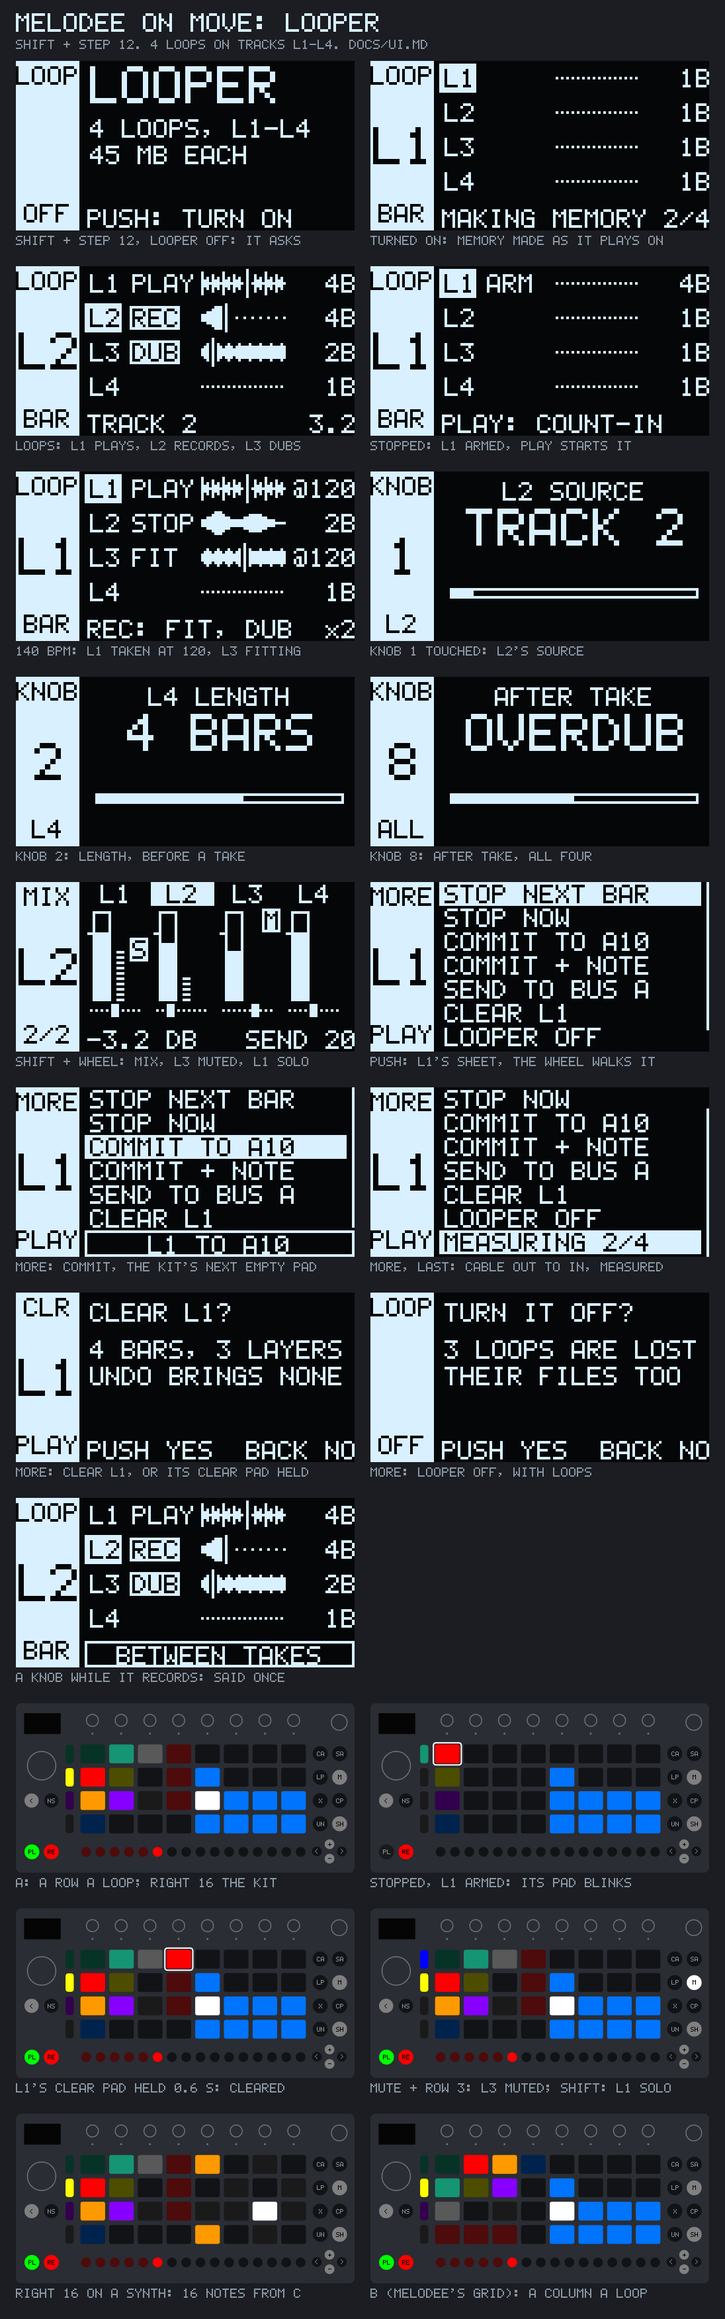
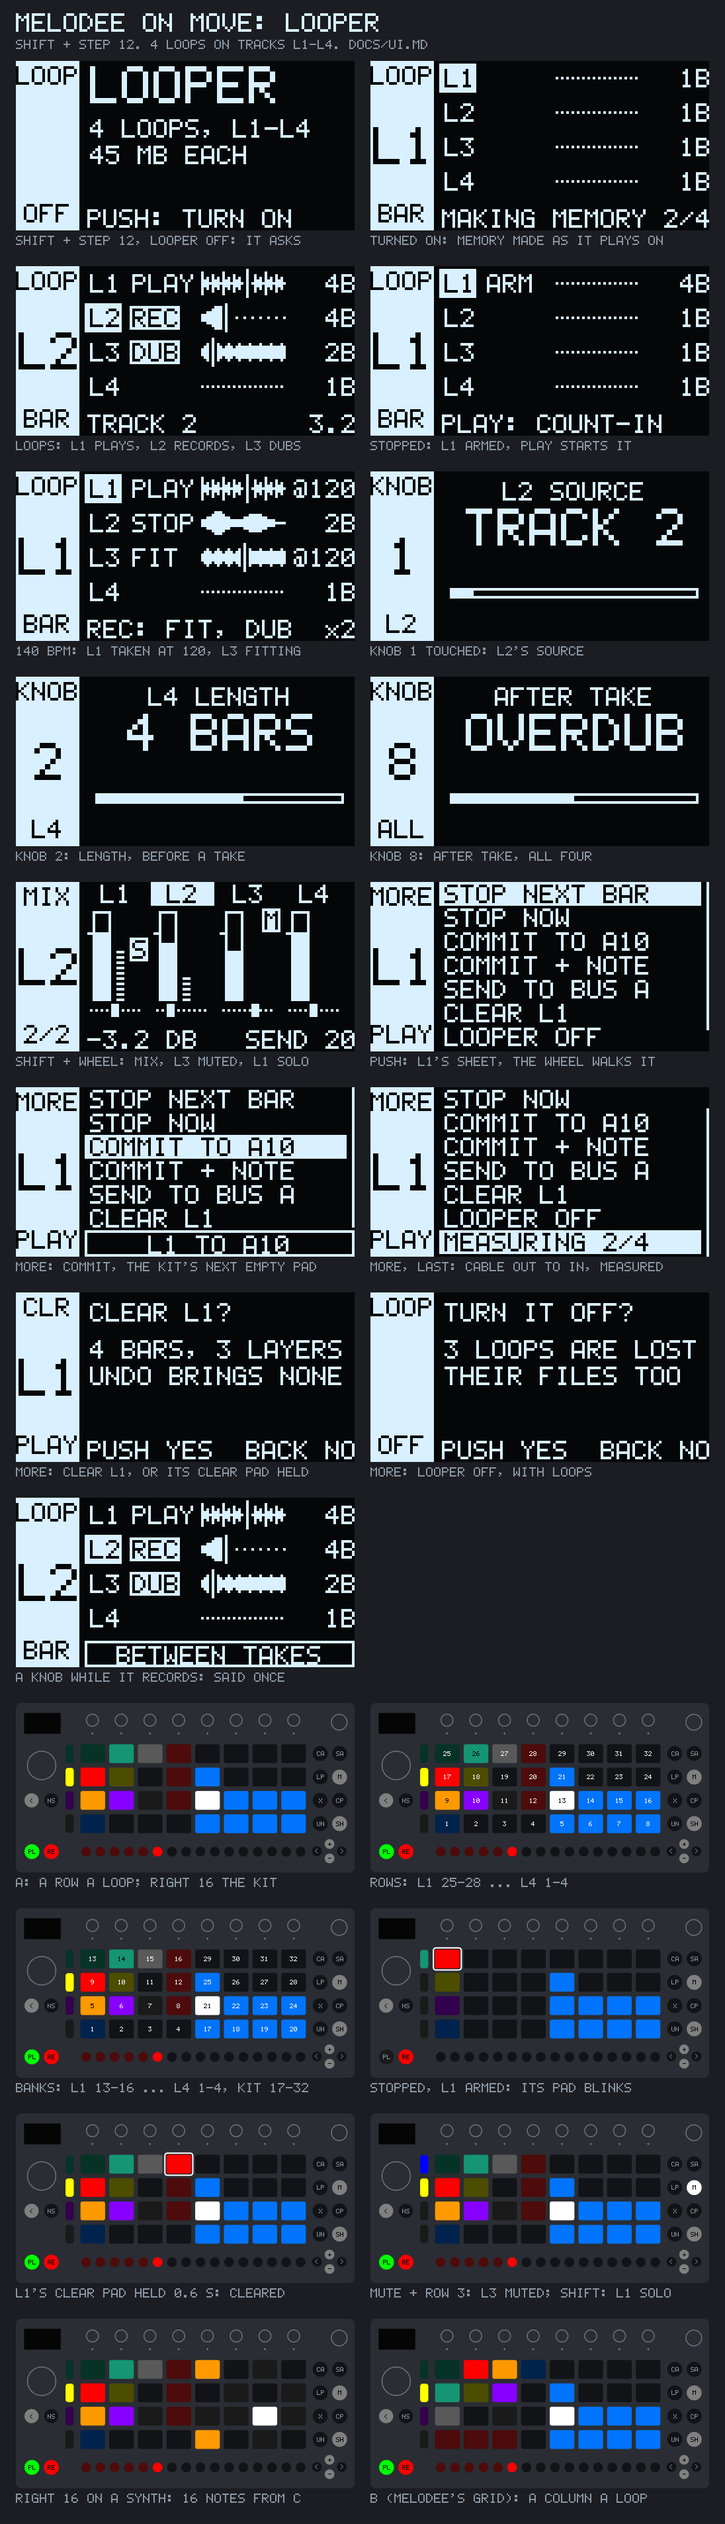
feat(move): the Looper's pads through the pad map, Rows and Banks

diff --git a/src/app/screens/looper.cpp b/src/app/screens/looper.cpp
@@ -123,17 +123,18 @@ void loop_buttons(const Studio& studio, move::Lights& lights) {
     }
 }
 
-// The pads: the left 16 the loops' rows (L1 on top), the right 16 the selected track's.
+// The pads, by their logical numbers (app/pad_layout.h): the loops' rows
+// (L1 on top), and the selected track's 16 (LoopDesk::pad_at()).
 void loop_pads(const Studio& studio, move::Lights& lights, const std::array<bool, pad_count>& held, bool blink_on) {
     using namespace move;
     const auto& desk = studio.loops();
+    auto layout = pad_layout();
     static const uint8_t dim_red = nearest_colour({90, 0, 0});
     auto now = Studio::Clock::now();
     for (unsigned loop = 0; loop < LoopDesk::loops; ++loop) {
         auto v = desk.view(loop);
         auto colour = ui::looper::loop_colour(loop);
-        unsigned row = pad_rows - 1 - loop;
-        auto at = [&](unsigned job) { return row * pad_columns + job; };
+        auto at = [&](unsigned job) { return physical_pad(LoopDesk::loop_pad(loop, job, layout), layout); };
         bool audio = v.length > 0 && v.state != S::Empty;
         // Record: red recording (blinking armed), orange overdubbing, the loop's colour dim otherwise.
         uint8_t record = v.state == S::Recording ? colour::red : v.state == S::Armed ? (blink_on ? colour::red : colour::off)
@@ -164,19 +165,24 @@ void loop_pads(const Studio& studio, move::Lights& lights, const std::array<bool
     auto colour = ui::track_colour(studio.track());
     const auto& track = studio.current();
     unsigned bank = track.last_pad / 16 % 2;
-    for (unsigned row = 0; row < pad_rows; ++row)
-        for (unsigned column = LoopDesk::PadJobs; column < pad_columns; ++column) {
-            unsigned pad = row * pad_columns + column, at = row * 4 + column - LoopDesk::PadJobs;
-            uint8_t shown = colour::off;
-            if (kind == TrackKind::Kit) {
-                unsigned kit = bank * 16 + at;
-                shown = kit == track.last_pad ? colour::white : track.pads[kit].used() ? colour.bright : colour::off;
-            } else if (kind == TrackKind::Synth || kind == TrackKind::Keys || kind == TrackKind::Midi || kind == TrackKind::Plugin) {
-                shown = at % 12 == 0 ? colour.bright : natural(int(at)) ? colour::dark_grey : colour::off;
-            }
-            if (held[pad]) shown = colour::white;
-            lights.pad(pad, shown);
+    for (unsigned at = 0; at < 16; ++at) {
+        unsigned pad = physical_pad(LoopDesk::track_pad(at, layout), layout);
+        uint8_t shown = colour::off;
+        if (kind == TrackKind::Kit) {
+            unsigned kit = bank * 16 + at;
+            shown = kit == track.last_pad ? colour::white : track.pads[kit].used() ? colour.bright : colour::off;
+        } else if (kind == TrackKind::Synth || kind == TrackKind::Keys || kind == TrackKind::Midi || kind == TrackKind::Plugin) {
+            shown = at % 12 == 0 ? colour.bright : natural(int(at)) ? colour::dark_grey : colour::off;
         }
+        if (held[pad]) shown = colour::white;
+        lights.pad(pad, shown);
+    }
+}
+
+// Where a physical pad sits on the Looper, in the layout chosen.
+LoopDesk::PadAt looper_pad(unsigned physical) {
+    auto layout = pad_layout();
+    return LoopDesk::pad_at(logical_pad(uint8_t(physical), layout), layout);
 }
 
 void looper_buttons(const Studio& studio, move::Lights& lights, bool blink_on) {
@@ -220,9 +226,9 @@ public:
         using Kind = move::Input::Kind;
         if (in.kind == Kind::Pad && in.index < pad_count) {
             held[in.index] = in.pressed;
-            unsigned column = move::pad_column(in.index);
-            if (!in.pressed && column == LoopDesk::ClearPad) // a clear let go early does nothing
-                studio.loops().pad(move::pad_rows - 1 - move::pad_row(in.index), LoopDesk::ClearPad, false, Studio::Clock::now());
+            auto at = looper_pad(in.index);
+            if (!in.pressed && at.loop >= 0 && at.job == LoopDesk::ClearPad) // a clear let go early does nothing
+                studio.loops().pad(unsigned(at.loop), LoopDesk::ClearPad, false, Studio::Clock::now());
         }
     }
 
@@ -231,16 +237,15 @@ public:
         switch (job) {
         case Job::Looper: studio.home(); return true; // Shift + Step 12 again: back to Play
         case Job::LoopPad: case Job::LoopPadNow: { // the audio thread did the rest, in the cycle it was read
-            unsigned pad = unsigned(use.index);
-            desk.pad(move::pad_rows - 1 - move::pad_row(pad), move::pad_column(pad), true, Studio::Clock::now());
+            auto at = looper_pad(unsigned(use.index));
+            if (at.loop >= 0) desk.pad(unsigned(at.loop), at.job, true, Studio::Clock::now());
             return true;
         }
-        case Job::PlayPad: // the right 16 on a kit: the pad played becomes the last pad
-            if (studio.kind() == TrackKind::Kit) {
-                unsigned at = move::pad_row(unsigned(use.index)) * 4 + move::pad_column(unsigned(use.index)) - LoopDesk::PadJobs;
-                studio.select_pad(studio.current().last_pad / 16 % 2 * 16 + at);
-            }
+        case Job::PlayPad: { // the track's 16 on a kit: the pad played becomes the last pad
+            auto at = looper_pad(unsigned(use.index));
+            if (studio.kind() == TrackKind::Kit && at.track >= 0) studio.select_pad(studio.current().last_pad / 16 % 2 * 16 + unsigned(at.track));
             return true;
+        }
         case Job::PlayNote: return true;
         case Job::SelectLoop: desk.select(unsigned(use.index)); return true;
         case Job::MuteLoop: {
@@ -256,7 +261,7 @@ public:
         case Job::TurnKnob: case Job::TurnKnobFine: turn(unsigned(use.index), use.delta); return true;
         default:
             // A loop's pad with Mute, Copy, Delete or a step held: nothing (the Play screen's jobs are for its own pads).
-            return use.control == bindings::Control::Pad && move::pad_column(unsigned(use.index)) < LoopDesk::PadJobs;
+            return use.control == bindings::Control::Pad && looper_pad(unsigned(use.index)).loop >= 0;
         }
     }
 
@@ -364,7 +369,7 @@ public:
         base_lights(lights);
         if (!studio.loops().on()) {
             for (unsigned loop = 0; loop < LoopDesk::loops; ++loop)
-                for (unsigned job = 0; job < LoopDesk::PadJobs; ++job) lights.pad((move::pad_rows - 1 - loop) * move::pad_columns + job, 0);
+                for (unsigned job = 0; job < LoopDesk::PadJobs; ++job) lights.pad(physical_pad(LoopDesk::loop_pad(loop, job, pad_layout()), pad_layout()), 0);
             for (unsigned n = 0; n < move::step_count; ++n) lights.step(n, 0);
         }
     }

diff --git a/tests/move_tests.cpp b/tests/move_tests.cpp
@@ -1242,6 +1242,33 @@ struct AudioThread {
     ~AudioThread() { running = false; thread.join(); }
 };
 
+// The Looper's pads in both layouts (app/pad_layout.h): the loops by logical
+// number, on the same physical pads, beside the track buttons.
+void test_looper_pads() {
+    using app::LoopDesk;
+    using app::PadLayout;
+    for (PadLayout layout : {PadLayout::Rows, PadLayout::Banks})
+        for (unsigned physical = 0; physical < 32; ++physical) {
+            unsigned row = physical / 8, column = physical % 8;
+            auto at = LoopDesk::pad_at(app::logical_pad(uint8_t(physical), layout), layout);
+            if (column < 4) CHECK(at.loop == int(3 - row) && at.job == column && at.track < 0);
+            else CHECK(at.loop < 0 && at.track == int(row * 4 + column - 4));
+        }
+    for (unsigned loop = 0; loop < 4; ++loop)
+        for (unsigned job = 0; job < 4; ++job)
+            for (PadLayout layout : {PadLayout::Rows, PadLayout::Banks}) {
+                uint8_t logical = LoopDesk::loop_pad(loop, job, layout);
+                CHECK(app::physical_pad(logical, layout) == (3 - loop) * 8 + job);
+                auto at = LoopDesk::pad_at(logical, layout);
+                CHECK(at.loop == int(loop) && at.job == job);
+            }
+    // Rows: L1 is pads 25-28, L4 1-4; Banks: L1 13-16, L4 1-4, the track's 16 the right bank, 17-32.
+    CHECK(LoopDesk::loop_pad(0, 0, PadLayout::Rows) == 24 && LoopDesk::loop_pad(3, 3, PadLayout::Rows) == 3);
+    CHECK(LoopDesk::loop_pad(0, 0, PadLayout::Banks) == 12 && LoopDesk::loop_pad(3, 0, PadLayout::Banks) == 0);
+    CHECK(LoopDesk::track_pad(0, PadLayout::Banks) == 16 && LoopDesk::track_pad(15, PadLayout::Banks) == 31);
+    CHECK(LoopDesk::track_pad(0, PadLayout::Rows) == 4 && LoopDesk::track_pad(15, PadLayout::Rows) == 31);
+}
+
 void test_looper() {
     // The Looper (docs/UI.md, "Looper"): Shift + Step 12 asks, the push turns
     // it on and its memory is made; a loop's row of pads records in the cycle
@@ -1292,6 +1319,17 @@ void test_looper() {
         melodee.audio_event(make_event(0x90, pad_note(24), 100)); // again: back to empty (an armed take cancelled)
         run(1);
         CHECK(loop_field(melodee.status(), 1) == "EMPTY");
+        // In the MPC banks the same pad is the left bank's 13, still L1's record pad.
+        app::set_pad_layout(app::PadLayout::Banks);
+        melodee.audio_event(make_event(0x80, pad_note(24), 0));
+        melodee.audio_event(make_event(0x90, pad_note(24), 100));
+        run(1);
+        CHECK(loop_field(melodee.status(), 1) == "ARM");
+        melodee.audio_event(make_event(0x80, pad_note(24), 0));
+        melodee.audio_event(make_event(0x90, pad_note(24), 100));
+        run(1);
+        CHECK(loop_field(melodee.status(), 1) == "EMPTY");
+        app::set_pad_layout(app::PadLayout::Rows);
         // A bar from the input with the metronome on, the round trip set.
         CHECK(studio.loops().remote("length 1 1") == "ok");
         CHECK(studio.loops().remote("latency " + std::to_string(round_trip)) == "ok");
@@ -1444,6 +1482,7 @@ int main() {
     test_synth_track();
     test_tracks();
     test_migration();
+    test_looper_pads();
     test_looper();
     std::cout << "move-tests: " << checks - failures << " of " << checks << " checks passed\n";
     return failures ? 1 : 0;

diff --git a/src/app/studio.cpp b/src/app/studio.cpp
@@ -228,15 +228,16 @@ void Studio::audio_event(const move::SurfaceEvent& event) {
         // The Looper on top: a loop's row of pads (L1 the top row) acts in
         // the cycle it was read; a clear is held, the MIDI thread's.
         bool looping = desk->pads_shown.load(std::memory_order_relaxed);
-        unsigned column = move::pad_column(input.index), row = move::pad_row(input.index);
-        if (looping && column < LoopDesk::PadJobs) {
+        auto layout = pad_layout();
+        auto at = LoopDesk::pad_at(logical_pad(uint8_t(input.index), layout), layout);
+        if (looping && at.loop >= 0) {
             went = {};
             if (!input.pressed || pads_typing.load(std::memory_order_relaxed) || !desk->pads_free.load(std::memory_order_relaxed)) return;
             using Do = melodee::looper::Do;
-            Do what = column == LoopDesk::RecordPad ? Do::Primary
-                    : column == LoopDesk::PlayPad ? (desk->pads_shift.load(std::memory_order_relaxed) ? Do::Now : Do::Toggle)
-                    : column == LoopDesk::UndoPad ? Do::Undo : Do::Enable;
-            if (what != Do::Enable) engine->send({Type::Looper, uint8_t(move::pad_rows - 1 - row), 0, uint16_t(what), 0});
+            Do what = at.job == LoopDesk::RecordPad ? Do::Primary
+                    : at.job == LoopDesk::PlayPad ? (desk->pads_shift.load(std::memory_order_relaxed) ? Do::Now : Do::Toggle)
+                    : at.job == LoopDesk::UndoPad ? Do::Undo : Do::Enable;
+            if (what != Do::Enable) engine->send({Type::Looper, uint8_t(at.loop), 0, uint16_t(what), 0});
             return;
         }
         if (input.pressed) {
@@ -247,10 +248,9 @@ void Studio::audio_event(const move::SurfaceEvent& event) {
             auto kind = TrackKind(audio_kind.load(std::memory_order_relaxed));
             bool note_track = kind == TrackKind::Synth || kind == TrackKind::Keys || kind == TrackKind::Midi || kind == TrackKind::Plugin;
             int key = kind == TrackKind::Kit ? int(melodee::sampler_first_note + input.index) : note_track ? note_for(input.index, audio_octave.load(std::memory_order_relaxed)) : -1;
-            if (looping) { // the right 16 on the Looper: a kit's bank of 16, or 16 notes up from C
-                unsigned at = row * LoopDesk::PadJobs + column - LoopDesk::PadJobs;
-                key = kind == TrackKind::Kit ? int(melodee::sampler_first_note + unsigned(desk->pads_bank.load(std::memory_order_relaxed)) * 16 + at)
-                    : note_track ? std::clamp(synth_base_note + 12 * audio_octave.load(std::memory_order_relaxed) + int(at), 0, 127) : -1;
+            if (looping && at.track >= 0) { // the track's 16 on the Looper: a kit's bank of 16, or 16 notes up from C
+                key = kind == TrackKind::Kit ? int(melodee::sampler_first_note + unsigned(desk->pads_bank.load(std::memory_order_relaxed)) * 16 + unsigned(at.track))
+                    : note_track ? std::clamp(synth_base_note + 12 * audio_octave.load(std::memory_order_relaxed) + at.track, 0, 127) : -1;
             }
             if (key < 0) return;
             went = {track, key};

diff --git a/src/ui/mockups_looper.cpp b/src/ui/mockups_looper.cpp
@@ -13,8 +13,12 @@
 // loop's sheet (MORE); Shift + the wheel turns to MIX. Knobs 1-8 are the
 // loop's: source, length, level, feedback, pan, send, quantize, after take.
 // Layout B, Melodee's own grid (a column a loop on the left 16), is drawn
-// beside it for Kerem to choose.
+// beside it for Kerem to choose (he chose A). In both pad layouts
+// (app/pad_layout.h) the loops sit on the same pads: Rows numbers them
+// 25-28 (L1) down to 1-4 (L4), Banks 13-16 down to 1-4 in the left bank,
+// the selected track's 16 on the right bank, 17-32.
 #include "ui/mockups.h"
+#include "app/pad_layout.h"
 #include "move/controls.h"
 #include "move/display.h"
 #include "move/font.h"
@@ -178,7 +182,12 @@ struct Panel {
     std::array<bool, move::pad_count> pulsing {};            // ringed: pulsing or blinking
     std::array<uint8_t, move::step_count> steps {};          // palette
     std::array<uint8_t, size_t(Button::Count)> buttons {};   // palette (RGB) or brightness (white)
+    std::array<uint8_t, move::pad_count> numbers {};         // a pad's number in the layout (1-32), 0 none
     void button(Button b, uint8_t value) { buttons[size_t(b)] = value; }
+    // Each pad's number in `layout` (app/pad_layout.h), as the hand counts them.
+    void number(app::PadLayout layout) {
+        for (uint8_t logical = 0; logical < move::pad_count; ++logical) numbers[app::physical_pad(logical, layout)] = uint8_t(logical + 1);
+    }
 };
 struct Lights { const char* name; const char* caption; Panel panel; };
 
@@ -228,6 +237,14 @@ std::vector<Lights> looper_lights() {
     using looper::loop_colour;
     std::vector<Lights> panels;
     panels.push_back({"lights-a", "A: A ROW A LOOP; RIGHT 16 THE KIT", looper_panel()});
+    {   // The pad layouts (app/pad_layout.h): the loops sit on the same pads, numbered as each layout counts.
+        Panel rows = looper_panel();
+        rows.number(app::PadLayout::Rows);
+        panels.push_back({"lights-rows", "ROWS: L1 25-28 ... L4 1-4", rows});
+        Panel banks = looper_panel();
+        banks.number(app::PadLayout::Banks);
+        panels.push_back({"lights-banks", "BANKS: L1 13-16 ... L4 1-4, KIT 17-32", banks});
+    }
     {   // Stopped, L1 armed: its record pad blinks red; Rec blinks; Play starts it after the count-in.
         Panel p;
         p.tracks = {loop_colour(0).bright, colour::dark_grey, colour::dark_grey, colour::dark_grey};
@@ -348,6 +365,10 @@ juce::Image panel_image(const Panel& p, int w, int h) {
         if (p.pulsing[pad]) {
             g.setColour(juce::Colours::white);
             g.drawRoundedRectangle(box.expanded(2.5f), 4, 2);
+        }
+        if (p.numbers[pad]) {
+            g.setColour(rgb(p.pads[pad]).getPerceivedBrightness() > 0.5f ? juce::Colours::black : juce::Colours::white);
+            move::draw_text_centred(g, int(box.getX()), int(box.getCentreY()) - 3, int(box.getWidth()), std::to_string(p.numbers[pad]));
         }
     }
     for (unsigned step = 0; step < move::step_count; ++step) {

diff --git a/src/app/loop_desk.h b/src/app/loop_desk.h
@@ -1,5 +1,6 @@
 // SPDX-License-Identifier: AGPL-3.0-only
 #pragma once
+#include "app/pad_layout.h"
 #include "move/latency.h"
 #include "melodee/engine/looper.h"
 #include "melodee/model/project.h"
@@ -42,6 +43,33 @@ public:
     static constexpr auto clear_time = std::chrono::milliseconds(600); // a clear pad held this long clears
     // A loop's row of pads (docs/UI.md, "Looper"): L1 the top row, its four left pads these jobs.
     enum PadJob : unsigned { RecordPad, PlayPad, UndoPad, ClearPad, PadJobs };
+    // A pad on the Looper by its logical number (app/pad_layout.h): a loop's
+    // pad (`loop` 0-3, its `job`), or one of the selected track's 16
+    // (`track` 0-15, bottom left first). Rows: L1 is pads 25-28, L2 17-20,
+    // L3 9-12, L4 1-4, the track's 16 the right half of each row. Banks: the
+    // left bank is the loops (L1 13-16 down to L4 1-4, as the MPC numbers
+    // its pads), the right bank 17-32 the track's 16. Either way the loops
+    // sit on the same pads, beside the track buttons.
+    struct PadAt { int loop = -1; unsigned job = 0; int track = -1; };
+    static constexpr PadAt pad_at(uint8_t logical, PadLayout layout) {
+        PadAt at;
+        if (logical >= 32) return at;
+        if (layout == PadLayout::Banks) {
+            if (logical < 16) { at.loop = 3 - logical / 4; at.job = logical % 4; }
+            else at.track = logical - 16;
+            return at;
+        }
+        unsigned row = logical / 8, column = logical % 8;
+        if (column < PadJobs) { at.loop = int(3 - row); at.job = column; }
+        else at.track = int(row * 4 + column - PadJobs);
+        return at;
+    }
+    static constexpr uint8_t loop_pad(unsigned loop, unsigned job, PadLayout layout) { // logical
+        return layout == PadLayout::Banks ? uint8_t((3 - loop % 4) * 4 + job % 4) : uint8_t((3 - loop % 4) * 8 + job % 4);
+    }
+    static constexpr uint8_t track_pad(unsigned track, PadLayout layout) { // logical
+        return layout == PadLayout::Banks ? uint8_t(16 + track % 16) : uint8_t((track % 16) / 4 * 8 + PadJobs + track % 4);
+    }
     // The Move's own round trip, output to input, when nothing else is set:
     // the runtime's one block (the simulated Move measures 128 + its cable).
     static constexpr int default_latency = 128;

diff --git a/docs/PARITY.md b/docs/PARITY.md
@@ -108,7 +108,7 @@ Kerem has checked it there. `n/a` rows have no box.
 | **Four loops L1-L4** on loop tracks of their own, each with a mix strip and a chain of six (MELODEE.md › Looper) | done | the track buttons are L1-L4 on the Looper; the chains are the engine's and the project's (effects into them with mixer & effects' FX pages) | [ ] |
 | **Loop states**: ARM, REC, DUB, PLAY, STOP, FIT; record → close → overdub ⇄ play (MELODEE.md › Looper) | done | Rec (the selected loop), or a loop's record pad | [ ] |
 | **Loop settings**: length (Free, 1-16 bars), level, feedback, Quantize (Bar, Beat, Off), After take (Play, Overdub, Stop) (MELODEE.md › Looper) | done | knobs 1-8 on the Looper: source, length, level, feedback, pan, send, quantize, after take | [ ] |
-| **Loop pads**: record / overdub, play / stop on the boundary, undo, redo, held to clear (MELODEE.md › Looper, Pads) | done | a pad row a loop, L1 on top, its four left pads; the right 16 play the selected track | [ ] |
+| **Loop pads**: record / overdub, play / stop on the boundary, undo, redo, held to clear (MELODEE.md › Looper, Pads) | done | a pad row a loop, L1 on top, its four left pads (Rows: 25-28 to 1-4; Banks: the left bank, 13-16 to 1-4); the right 16 play the selected track | [ ] |
 | **Loop sources**: Input, a track after its chain, another loop, Mix; each written behind the play head by its delay (MELODEE.md › Looper, Sources) | done | knob 1: Input (line in or mic as the Move routes it), its left or right side, a track, another loop, Mix; the input's delay measured by the sheet's IN DELAY (428 frames on the simulated Move's 300-frame cable) | [ ] |
 | **Looper MIX**: level, pan, send, bus; mute and solo a loop (MELODEE.md › Looper) | done | Shift + the wheel: MIX, knobs 1-8; the bus on the sheet; Mute (+ Shift) + a track button; a track button held + the Volume knob | [ ] |
 | **MORE sheet**: Play / Stop on the boundary or at once, Clear (asks) (MELODEE.md › Looper) | done | the wheel's push: a list the wheel walks | [ ] |

diff --git a/docs/MOVE_CONTROLS.md b/docs/MOVE_CONTROLS.md
@@ -322,9 +322,9 @@ their touch, Plus and Minus, Back, a track button held and a step).
 
 | Control | On the Move | In Melodee | Status |
 | --- | --- | --- | --- |
-| Pad, left 16 (Looper) | (No Looper on the Move) | A loop's row, L1 on top: record, close, overdub and play again (as Rec); play or stop on the boundary, again cancels; undo then redo the last overdub; held 0.6 s, clear | done |
+| Pad, left 16 (Looper) | (No Looper on the Move) | A loop's row, L1 on top: record, close, overdub and play again (as Rec); play or stop on the boundary, again cancels; undo then redo the last overdub; held 0.6 s, clear. By the pad map: Rows L1 pads 25-28 to L4 1-4; Banks the left bank, L1 13-16 to L4 1-4 | done |
 | Shift + Pad, left 16 (Looper) | (As above) | The play / stop pad at once; the rest as without Shift | done |
-| Pad, right 16 (Looper, kit) | (As above) | The selected kit's bank of 16 (the last pad's), A01 bottom left; the pad played is the last pad | done |
+| Pad, right 16 (Looper, kit) | (As above) | The selected kit's bank of 16 (the last pad's), A01 bottom left (Banks: the right bank, 17-32); the pad played is the last pad | done |
 | Pad, right 16 (Looper, synth) | (As above) | 16 notes up from C at the track's octave | done |
 | Track button (Looper) | Selects the track | Selects the loop track, L1 the top button | done |
 | Track button held + Volume knob (Looper) | The track's volume, in dB | The loop track's level, in dB | done |

diff --git a/docs/UI.md b/docs/UI.md
@@ -222,7 +222,13 @@ records the selected loop, the screens as drawn.
   undo then redo the last overdub; held 0.6 s, clear. The audio thread
   does their jobs in the cycle they were read. The right 16 keep playing
   the selected track: a kit's bank of 16 (the last pad's), A01 bottom
-  left; a note track 16 notes up from C.
+  left; a note track 16 notes up from C. Every pad goes through the pad
+  map (`src/app/pad_layout.h`), and in both layouts the loops sit on the
+  same pads: in **Rows** L1 is pads 25-28, L2 17-20, L3 9-12, L4 1-4, the
+  track's 16 the right half of each row; in **Banks** the left bank is the
+  loops (L1 13-16 down to L4 1-4, as the MPC numbers its pads) and the
+  right bank, 17-32, the track's 16 (`lights-rows`, `lights-banks` on the
+  sheet).
 - **Track buttons** are L1-L4: a tap picks the loop; Mute + one mutes it,
   Shift + Mute + one solos it, Mute alone mutes the selected loop; held
   with the Volume knob, its level (`VOL` / `L2` / `LOOP`). Held, they still
